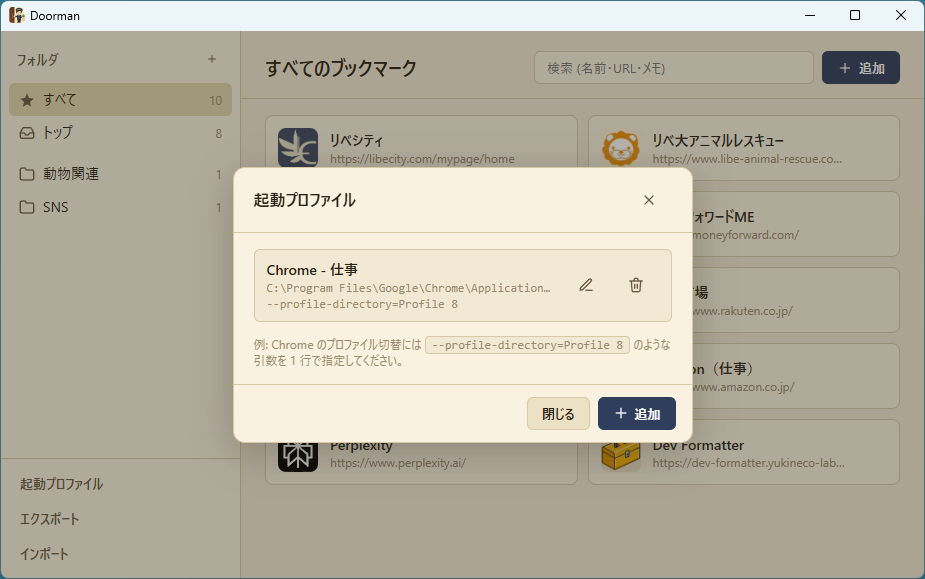
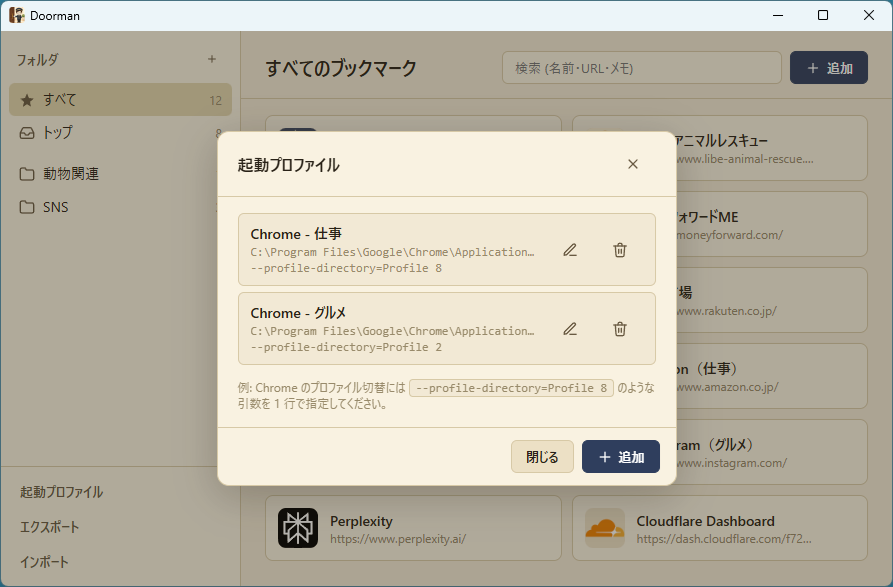
Refresh landing page screenshots and add profile-form capture
Update main-window and launch-profiles captures to match the current
UI, and insert a new "起動プロファイル登録画面" between the steps
and the profile list so visitors see input → result in order.

diff --git a/site/index.html b/site/index.html
@@ -358,6 +358,17 @@
 
         <figure class="screenshot">
           <img
+            src="/screenshots/launch-profile-form.png"
+            alt="起動プロファイル登録画面"
+            loading="lazy"
+          />
+          <figcaption class="screenshot__caption">
+            起動プロファイル登録画面。Chrome のパスと典型的な引数は自動入力されます
+          </figcaption>
+        </figure>
+
+        <figure class="screenshot">
+          <img
             src="/screenshots/launch-profiles.png"
             alt="起動プロファイル一覧画面"
             loading="lazy"
